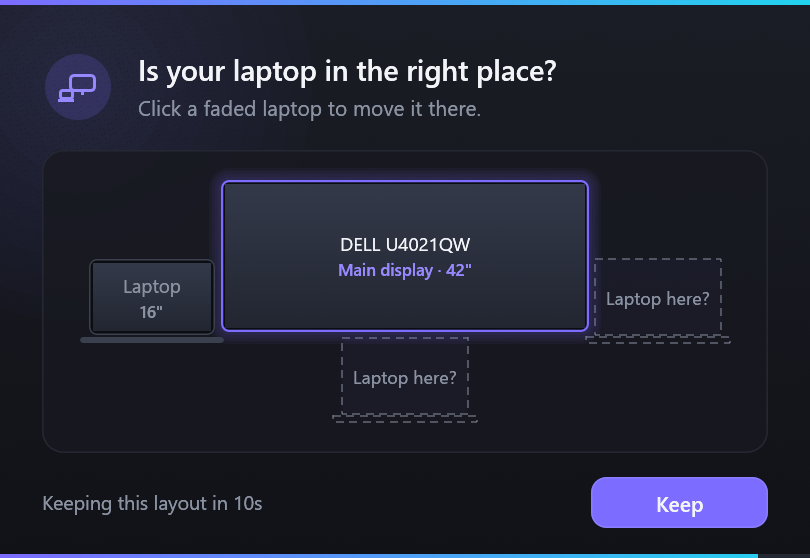
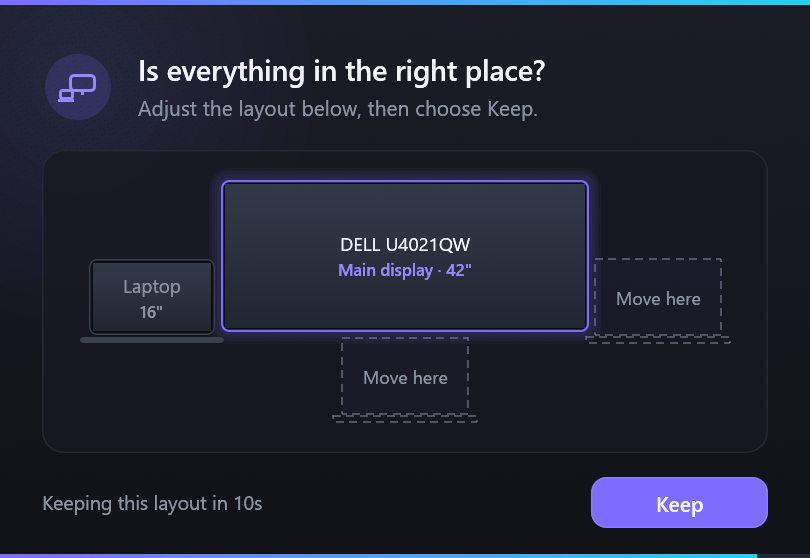
Use consistent wording for every display layout

Changed region(s): [[0.1543, 0.0914, 0.679, 0.2133], [0.7407, 0.5179, 0.8642, 0.5484], [0.4321, 0.6703, 0.5556, 0.7007]]

diff --git a/src/ui.rs b/src/ui.rs
@@ -455,7 +455,6 @@ fn ease_out(t: f32) -> f32 {
 /// What the prompt is about, worked out from the screens on the card.
 struct Choices {
     dual: bool,
-    laptop: Option<Screen>,
     /// Faded laptops wherever the laptop is not.
     ghosts: Vec<(Side, Screen)>,
 }
@@ -474,7 +473,7 @@ fn choices(screens: &[Screen]) -> Choices {
             ghosts.push((side, Screen { id, x, y, primary: false, ..l.clone() }));
         }
     }
-    Choices { dual: display::is_dual(&externals), laptop, ghosts }
+    Choices { dual: display::is_dual(&externals), ghosts }
 }
 
 fn draw(ui: &mut egui::Ui, phase: &Phase, since: Instant, screens: &[Screen]) -> Option<Action> {
@@ -517,7 +516,7 @@ fn draw(ui: &mut egui::Ui, phase: &Phase, since: Instant, screens: &[Screen]) ->
     let text_w = rect.right() - PAD - text_x;
     let (title, subtitle) = match phase {
         Phase::Working(step) => ("Setting up your displays".to_string(), format!("{step}{}", dots(t))),
-        Phase::Prompt => prompt_text(screens, choices.as_ref().unwrap()),
+        Phase::Prompt => ("Is everything in the right place?".into(), "Adjust the layout below, then choose Keep.".into()),
         Phase::Done(summary) => ("Displays ready".to_string(), summary.clone()),
         Phase::Failed(e) => ("Couldn't set up your displays".to_string(), e.clone()),
     };
@@ -631,22 +630,6 @@ fn draw_icon(painter: &Painter, c: Pos2, phase: &Phase, since: Instant, t: f32) 
 
 fn dots(t: f32) -> &'static str {
     ["", ".", "..", "..."][((t * 2.5) as usize) % 4]
-}
-
-fn prompt_text(screens: &[Screen], choices: &Choices) -> (String, String) {
-    match (choices.laptop.is_some(), choices.dual) {
-        (true, true) => ("Is everything in the right place?".into(), "Click a faded laptop to move it, or swap the monitors.".into()),
-        (true, false) => ("Is your laptop in the right place?".into(), "Click a faded laptop to move it there.".into()),
-        _ => {
-            let mut externals: Vec<_> = screens.iter().filter(|s| !s.internal).collect();
-            externals.sort_by_key(|s| s.x);
-            let sub = match externals.as_slice() {
-                [left, right] if left.name != right.name => format!("{} should be on your left, {} on your right.", left.name, right.name),
-                _ => "The main display should be the one on your right.".into(),
-            };
-            ("Are your monitors the right way round?".into(), sub)
-        }
-    }
 }
 
 /// Size of a screen's picture in millimetres, from its EDID, or a guess from its pixels.
@@ -804,10 +787,10 @@ fn draw_ghost(painter: &Painter, r: Rect, hovered: bool) {
     dashed(r);
     let deck = Rect::from_min_max(pos2(r.left() - 6.0, r.bottom() + 1.0), pos2(r.right() + 6.0, r.bottom() + 5.0));
     dashed(deck);
-    let font = regular(12.0);
-    let options: &[&str] = if hovered { &["Move here", "Move"] } else { &["Laptop here?", "Here?"] };
-    let width = |s: &str| painter.layout_no_wrap(s.to_owned(), font.clone(), TEXT).size().x;
-    let text = options.iter().find(|s| width(s) <= r.width() - 10.0).copied().unwrap_or("");
+    let text = "Move here";
+    let width = painter.layout_no_wrap(text.into(), regular(12.0), TEXT).size().x;
+    let scale = ((r.width() - 10.0).max(1.0) / width).min(1.0);
+    let font = regular(12.0 * scale);
     painter.text(r.center(), Align2::CENTER_CENTER, text, font, if hovered { TEXT } else { MUTED });
 }
 
